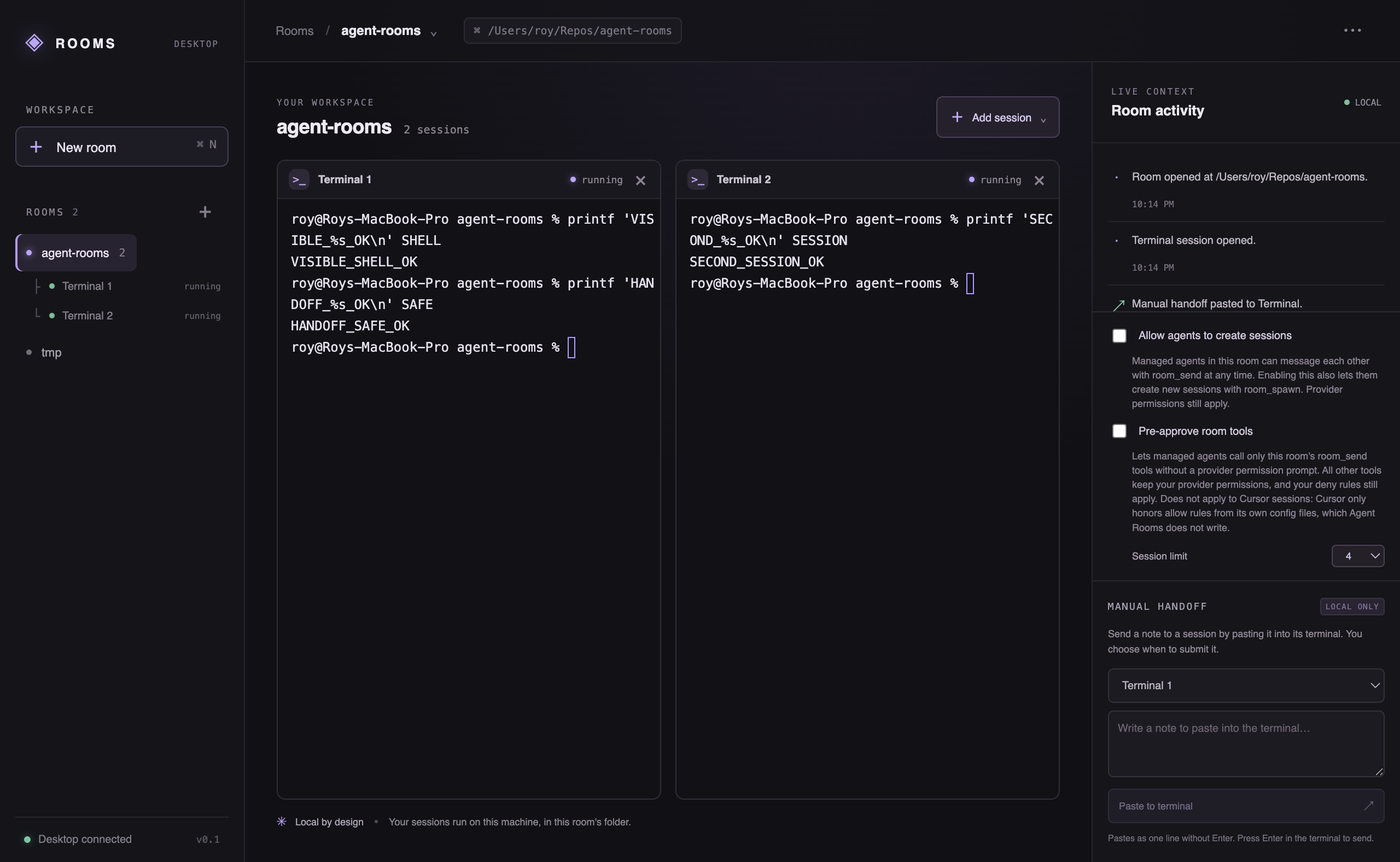
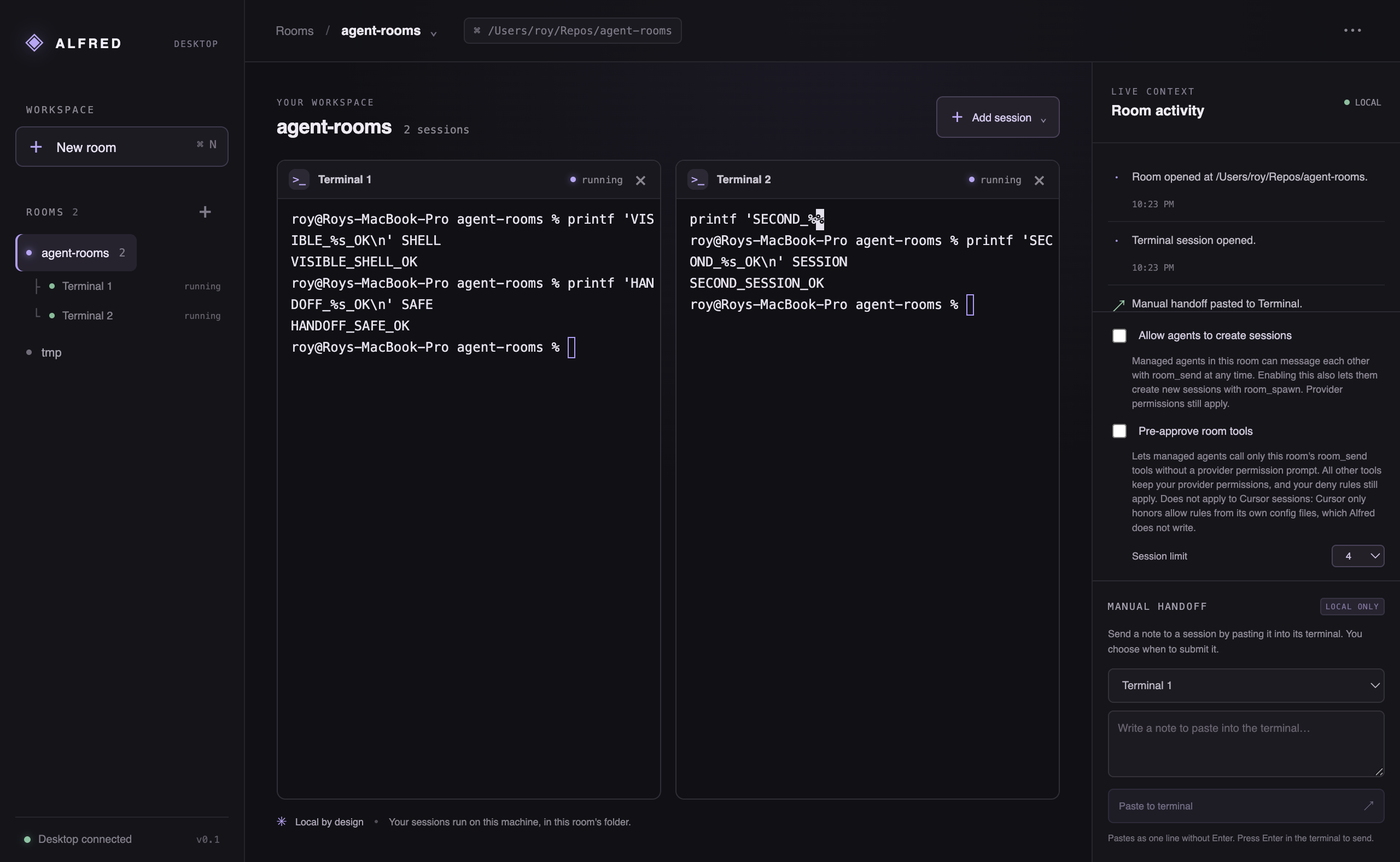
Rename product to Alfred; make managed rename change the room_send address
- Alfred branding across UI, package metadata (Apache-2.0), docs, AGENTS.md
- Migrate saved rooms from the old agent-rooms userData directory
- rooms:rename-agent-session IPC + AgentEngine.renameSession with
  room-unique validation; UI applies rename only on backend success
- Transcript delegation lines resolve current names by session id

Claude-Session: https://claude.ai/code/session_01BGuwhLi6mJrKy1dvGjUKGi

Changed region(s): [[0.5, 0.2487, 0.75, 0.3731], [0.8125, 0.5907, 0.875, 0.6218], [0.0312, 0.0311, 0.0938, 0.0622]]

diff --git a/src/App.tsx b/src/App.tsx
@@ -28,6 +28,10 @@ type ManagedSession = {
     taskId?: string;
     role: 'user' | 'agent' | 'system' | 'task' | 'warning' | 'delegation';
     text: string;
+    // Delegation entries only: the live target session id, so the line can always be
+    // rendered with current names (session.name for the source, this id for the target)
+    // instead of the names frozen into `text` when the delegation event fired.
+    targetSessionId?: string;
   }[];
 };
 type Session = TerminalSession | ManagedSession;
@@ -49,12 +53,14 @@ type AgentEvent = {
     | 'task-completed'
     | 'task-failed'
     | 'session-stopped'
+    | 'session-renamed'
     | 'delegation'
     | 'permission-denied';
   sessionId: string;
   roomId: string;
   taskId?: string;
   text?: string;
+  name?: string;
   targetSessionId?: string;
   targetTaskId?: string;
   session?: {
@@ -116,6 +122,7 @@ type Bridge = {
   }>;
   runAgentTask(input: { sessionId: string; text: string }): Promise<{ taskId: string }>;
   stopAgentSession(id: string): Promise<void>;
+  renameAgentSession(input: { id: string; name: string }): Promise<{ id: string; name: string }>;
   setRoomPolicy(input: {
     roomId: string;
     allowSpawn: boolean;
@@ -188,6 +195,7 @@ const appendTranscript = (
   role: 'user' | 'agent' | 'system' | 'task' | 'warning' | 'delegation',
   text: string,
   taskId?: string,
+  targetSessionId?: string,
 ): ManagedSession => {
   const previous = session.transcript.at(-1);
   if (role === 'agent' && previous?.role === 'agent' && previous.taskId === taskId) {
@@ -201,7 +209,10 @@ const appendTranscript = (
   }
   return {
     ...session,
-    transcript: [...session.transcript, { id: makeId(), taskId, role, text }].slice(-200),
+    transcript: [
+      ...session.transcript,
+      { id: makeId(), taskId, role, text, targetSessionId },
+    ].slice(-200),
   };
 };
 
@@ -354,6 +365,7 @@ function ManagedPane({
   onCommitRename,
   onCancelRename,
   onBlurRename,
+  resolveSessionName,
 }: {
   session: ManagedSession;
   onClose: () => void;
@@ -366,6 +378,9 @@ function ManagedPane({
   onCommitRename: () => void;
   onCancelRename: () => void;
   onBlurRename: () => void;
+  // Live current-name lookup by session id, so a delegation line always reads
+  // with names as they are now, not as they were when the delegation fired.
+  resolveSessionName: (id: string) => string;
 }) {
   const [task, setTask] = useState('');
   const [submitting, setSubmitting] = useState(false);
@@ -451,7 +466,11 @@ function ManagedPane({
                           ? 'DELEGATION'
                           : 'STATUS'}
               </span>
-              <p>{entry.text}</p>
+              <p>
+                {entry.role === 'delegation' && entry.targetSessionId
+                  ? session.name + ' → ' + resolveSessionName(entry.targetSessionId)
+                  : entry.text}
+              </p>
             </div>
           ))
         ) : (
@@ -693,6 +712,8 @@ export default function App() {
                 ...room,
                 sessions: room.sessions.map((session) => {
                   if (session.id !== event.sessionId || session.kind !== 'managed') return session;
+                  if (event.type === 'session-renamed' && event.name)
+                    return { ...session, name: event.name };
                   if (event.type === 'task-started')
                     return event.text
                       ? appendTranscript(
@@ -714,7 +735,13 @@ export default function App() {
                     );
                   if (event.type === 'session-stopped') return { ...session, status: 'stopped' };
                   if (event.type === 'delegation' && event.text)
-                    return appendTranscript(session, 'delegation', event.text, event.taskId);
+                    return appendTranscript(
+                      session,
+                      'delegation',
+                      event.text,
+                      event.taskId,
+                      event.targetSessionId,
+                    );
                   if (event.type === 'permission-denied')
                     return appendTranscript(
                       session,
@@ -1001,12 +1028,12 @@ export default function App() {
   // stay unique within the room — case-insensitively, since room_send
   // addressing a managed session by name should not depend on case — and a
   // rejected rename keeps editing open with an inline error rather than
-  // silently accepting a collision. This is UI/display state only — there
-  // is no backend IPC yet to rename the underlying agent-engine session, so
-  // a managed session's actual room_send address does not change until one
-  // exists (rooms:rename-agent-session).
+  // silently accepting a collision. For a managed session, the rename is
+  // sent to the backend (rooms:rename-agent-session) first, and local state
+  // is only updated on success — otherwise the name shown to the user and
+  // the actual room_send address would drift apart.
   const commitRename = useCallback(
-    (session: Session): boolean => {
+    async (session: Session): Promise<boolean> => {
       const room = roomsRef.current.find((r) => r.sessions.some((s) => s.id === session.id));
       if (!room) {
         setRenamingSessionId('');
@@ -1042,6 +1069,14 @@ export default function App() {
         return false;
       }
       const previousName = target.name;
+      if (target.kind === 'managed' && bridge) {
+        try {
+          await bridge.renameAgentSession({ id: target.id, name: trimmed });
+        } catch (error) {
+          setRenameError('Could not rename: ' + String((error as Error)?.message || error));
+          return false;
+        }
+      }
       setRooms((prev) =>
         prev.map((r) =>
           r.id !== room.id
@@ -1052,21 +1087,12 @@ export default function App() {
               },
         ),
       );
-      appendActivity(
-        previousName +
-          ' renamed to ' +
-          trimmed +
-          (target.kind === 'managed'
-            ? '. Display name only — room_send addressing needs a rooms:rename-agent-session IPC, which does not exist yet.'
-            : '.'),
-        'user',
-        room.id,
-      );
+      appendActivity(previousName + ' renamed to ' + trimmed + '.', 'user', room.id);
       setRenamingSessionId('');
       setRenameError('');
       return true;
     },
-    [sessionNameDraft, appendActivity],
+    [sessionNameDraft, appendActivity, bridge],
   );
   useEffect(() => {
     if (!menu) {
@@ -1206,7 +1232,7 @@ export default function App() {
       <aside className="sidebar">
         <div className="brand">
           <span className="brand-glyph">◈</span>
-          <span>ROOMS</span>
+          <span>ALFRED</span>
           <span className="brand-beta">DESKTOP</span>
         </div>
         <div className="workspace-label">WORKSPACE</div>
@@ -1592,6 +1618,9 @@ export default function App() {
                               onCommitRename={() => commitRename(session)}
                               onCancelRename={cancelRename}
                               onBlurRename={blurCancelRename}
+                              resolveSessionName={(id) =>
+                                room.sessions.find((s) => s.id === id)?.name || id
+                              }
                             />
                           )}
                         </div>
@@ -1752,7 +1781,7 @@ export default function App() {
                     {current.allowSpawn ? ' and room_spawn' : ''} tools without a provider
                     permission prompt. All other tools keep your provider permissions, and your
                     deny rules still apply. Does not apply to Cursor sessions: Cursor only honors
-                    allow rules from its own config files, which Agent Rooms does not write.
+                    allow rules from its own config files, which Alfred does not write.
                   </div>
                   <label className="policy-limit">
                     Session limit

diff --git a/index.html b/index.html
@@ -1,1 +1,1 @@
-<!doctype html><html lang="en"><head><meta charset="UTF-8"/><meta name="viewport" content="width=device-width, initial-scale=1.0"/><title>Agent Rooms</title></head><body><div id="root"></div><script type="module" src="/src/main.tsx"></script></body></html>
+<!doctype html><html lang="en"><head><meta charset="UTF-8"/><meta name="viewport" content="width=device-width, initial-scale=1.0"/><title>Alfred</title></head><body><div id="root"></div><script type="module" src="/src/main.tsx"></script></body></html>

diff --git a/doc/adapters.md b/doc/adapters.md
@@ -2,7 +2,7 @@
 
 ## Why this boundary matters
 
-Starting a provider's CLI in a PTY is not the same as integrating its agent protocol. It gives Agent Rooms a local terminal session, but does not by itself expose structured task creation, internal state, tool events, cancellation, or delegation. The UI and documentation must keep those capabilities separate.
+Starting a provider's CLI in a PTY is not the same as integrating its agent protocol. It gives Alfred a local terminal session, but does not by itself expose structured task creation, internal state, tool events, cancellation, or delegation. The UI and documentation must keep those capabilities separate.
 
 ## MVP adapter: local process
 
@@ -38,7 +38,7 @@ These observations are specific to the installed versions and may change. The CL
 - [Codex App Server](https://developers.openai.com/codex/app-server) is an official integration surface to assess alongside the installed CLI's `app-server` and `queue` commands. Verify its current protocol, supported operations, authentication, and notification behavior before adopting it.
 - [Claude Agent SDK overview](https://code.claude.com/docs/en/agent-sdk/overview) describes embedding the Claude Code agent loop in an application process, while the CLI is the interactive terminal path. Its docs say SDK quickstart uses an API key and third-party products may not offer claude.ai login or rate limits absent approval. Validate this constraint before choosing the SDK path.
 
-SDK/app-server integrations differ from launching an already installed local CLI. Launching the local CLI uses that tool's own sign-in and permission flow; it does not by itself grant Agent Rooms structured API control. Avoid silently switching users from their CLI authentication to API billing.
+SDK/app-server integrations differ from launching an already installed local CLI. Launching the local CLI uses that tool's own sign-in and permission flow; it does not by itself grant Alfred structured API control. Avoid silently switching users from their CLI authentication to API billing.
 
 ## Provider research notes
 
@@ -109,7 +109,7 @@ The owner authorized adding Cursor CLI and a small live test budget of at most 4
 - **Single turn (turn 1).** `-p --output-format stream-json --stream-partial-output --plugin-dir <tmp>/agent-rooms -- <prompt>`.
   - Events: `system/init` (keys `apiKeySource, cwd, session_id, model, permissionMode`; `permissionMode: "default"`; no MCP status field), `user`, `thinking` `delta`/`completed` (ignored), an `assistant` delta, the final full `assistant` message (no `timestamp_ms`), `result/success` (`duration_ms` 3034, `usage`).
   - The task completed with `OK` in about 10.5 s wall time, with session id `1d2e7ebc-…`.
-- **Bridge loaded through `--plugin-dir`.** At `system/init`, `ps` showed `node …/desktop/room-mcp-bridge.mjs` as a child of `cursor-agent`. The tool was exposed as `plugin-<plugin dir basename>-<server key>-room_send`. After the change to a fixed basename, the id became `plugin-agent-rooms-agent_rooms-room_send` (server `plugin-agent-rooms-agent_rooms`). Loading the plugin may depend on a Cursor-side feature gate (`enableUserLocalPlugins`) and has not been verified on other accounts or versions. Nothing was written to the project or to `~/.cursor`, and the temporary plugin directories were gone after each run.
+- **Bridge loaded through `--plugin-dir`.** At `system/init`, `ps` showed `node …/desktop/room-mcp-bridge.mjs` as a child of `cursor-agent`. The tool was exposed as `plugin-<plugin dir basename>-<server key>-room_send`. After the change to a fixed basename, the id became `plugin-agent-rooms-agent_rooms-room_send` (server `plugin-agent-rooms-agent_rooms`). Loading the plugin may depend on a Cursor-side feature gate (`enableUserLocalPlugins`) and has not been verified on other accounts or versions. Nothing was written to the project or to `~/.cursor`, and the temporary plugin directories were gone after each run. This evidence was captured while the Cursor plugin folder/server name was still `agent-rooms`; the 2026-09-22 rename to Alfred deliberately kept that plugin name unchanged (see decisions.md), so the tool id above is still accurate. It is unrelated to `room-mcp-bridge.mjs`'s own `McpServer` name, which is now `alfred`.
 - **Resume (turn 2).** The same argv plus `--resume 1d2e7ebc-…` kept the same `session_id` in init and result.
   - In this resumed chat, the model called the tool under the first turn's randomly named plugin id. That led to the fixed plugin naming.
   - The result text concatenates all assistant segments, including the pre-tool preamble (`"…DONE.DONE"`). The runner passes it through unchanged.

diff --git a/doc/decisions.md b/doc/decisions.md
@@ -10,11 +10,11 @@ Start with a desktop app that can host local terminal sessions and room organiza
 
 ### Local CLIs remain the agent runtime
 
-Use the user's installed command line tools and their established authentication. Keep Agent Rooms' first role to launching, organizing, and observing sessions.
+Use the user's installed command line tools and their established authentication. Keep Alfred's first role to launching, organizing, and observing sessions.
 
 ### Minimal harness; no orchestration LLM
 
-Agent Rooms does not add an LLM to decide which provider runs, translate every prompt, or reconstruct hidden context. Any future workflow must be user-directed or use a provider-supported protocol.
+Alfred does not add an LLM to decide which provider runs, translate every prompt, or reconstruct hidden context. Any future workflow must be user-directed or use a provider-supported protocol.
 
 ### MVP handoff is explicit; room authorization can reduce future friction
 
@@ -43,13 +43,16 @@ Decided 2026-09-22 after reading Cursor CLI 2026.09.18-9a7762b help and docs and
 - **Prompt input.** No stdin prompt input is documented, so the prompt is one argv element after `--` (no shell). It is visible to local process listings for the life of the turn.
 - **Bridge check.** Cursor's `system/init` reports no MCP status, so unlike Claude and Codex a failed bridge cannot be detected before the model turn.
 
-### License remains open
+### Product name and license (owner decision, 2026-09-22)
 
-The project is intended to be open source, but the owner has not selected a license. Do not invent one or add a license file without that decision.
+The owner named the product **Alfred** and set its license to **Apache-2.0** (LICENSE already present in the repo). This supersedes the earlier constraint in AGENTS.md against choosing a name or claiming a license. User-visible branding (window title, sidebar logo, HTML title, `package.json` name/productName/description/license, activity/policy copy, the MCP server name reported by `room-mcp-bridge.mjs`, and docs) was updated to Alfred. "Rooms" remains the in-product concept — Alfred has rooms.
+
+Kept unchanged, deliberately: IPC channel names (`rooms:*`), env var names (`AGENT_ROOMS_*`, including the `x-agent-rooms-token` bridge header), the MCP tool names `room_send`/`room_spawn`, and the Cursor plugin folder/server name `agent-rooms` (so the tool id `plugin-agent-rooms-agent_rooms-room_send` recorded in adapters.md is still accurate and did not need updating). Only the MCP server's own reported `name` field in `room-mcp-bridge.mjs` (as seen via `initialize`/tools metadata, not the Cursor plugin id) changed to `alfred`.
+
+Electron derives the default userData directory from the app name; adding `productName: "Alfred"` moves that directory. `desktop/main.cjs` now migrates `project-state.json` from the previous `agent-rooms` userData directory into the new one on first launch when the new directory has no saved state yet, so existing rooms are not lost. Covered by backend tests in `tests/backend.test.cjs`.
 
 ## Open questions
 
 - Which officially documented Claude Code and Codex interfaces, if any, provide stable structured session or delegation control?
 - What exact room and session metadata should survive restart?
 - Which macOS versions and distribution channel will be supported first?
-- Which open-source license does the owner want?

diff --git a/doc/product.md b/doc/product.md
@@ -2,9 +2,9 @@
 
 ## Vision
 
-Agent Rooms gives developers a practical, local-first home for several coding-agent sessions. Each project is a room; vertical tabs make sessions easy to scan, group, and revisit. The workspace should reduce the overhead of switching between terminal windows while preserving the direct relationship between a developer and the agent CLI they chose.
+Alfred gives developers a practical, local-first home for several coding-agent sessions. Each project is a room; vertical tabs make sessions easy to scan, group, and revisit. The workspace should reduce the overhead of switching between terminal windows while preserving the direct relationship between a developer and the agent CLI they chose.
 
-Over time, the product can make handoffs and delegation between agents easier to observe and manage, including across providers. That destination depends on real capabilities exposed by each provider. Agent Rooms must not pretend a pasted prompt is native delegation or imply it transferred hidden context.
+Over time, the product can make handoffs and delegation between agents easier to observe and manage, including across providers. That destination depends on real capabilities exposed by each provider. Alfred must not pretend a pasted prompt is native delegation or imply it transferred hidden context.
 
 ## Who it is for
 
@@ -24,7 +24,7 @@ The MVP is a desktop organizer and terminal harness. It does not implement autom
 ## Product rules
 
 1. **Local first.** Commands run on the user's machine with the user's installed CLI and its own authentication flow.
-2. **No extra reasoning layer.** Agent Rooms does not add an orchestration LLM or rewrite the user's agent context behind their back.
+2. **No extra reasoning layer.** Alfred does not add an orchestration LLM or rewrite the user's agent context behind their back.
 3. **Visible actions.** Starting, stopping, pasting, and submitting work should be clear and attributable to a user action or a policy the user explicitly set.
 4. **Authorization before dispatch.** In the MVP, a pasted handoff never triggers Enter; the user reviews and submits it. A later room-level policy may explicitly authorize an agent to open or message another agent without per-message confirmation. The policy must name its scope and destinations, be visible and revocable, and produce observable activity. Do not treat low-friction preference as authorization to bypass provider permissions.
 5. **Provider truthfulness.** Label capabilities according to verified provider behavior. Shell launch, manual handoff, structured adapter support, and native delegation are distinct capabilities.

diff --git a/doc/roadmap.md b/doc/roadmap.md
@@ -4,7 +4,7 @@ Statuses reflect visible code and evidence at the time of the latest update. Mil
 
 ## 0. Capability validation — in progress
 
-Read-only inspection of installed Codex CLI 0.149.1 and Claude Code 2.1.280 help shows promising local controls: Codex can queue a message for a session by UUID or exact name and can browse sessions on a shared app-server; Claude Code can run/list/attach/log/stop background sessions. This confirms useful CLI entry points exist, but not that Agent Rooms can reliably discover identity, receive notifications, or perform native cross-provider delegation. Next, verify official documentation and the interaction semantics. Keep research read-only; do not submit billable agent tasks.
+Read-only inspection of installed Codex CLI 0.149.1 and Claude Code 2.1.280 help shows promising local controls: Codex can queue a message for a session by UUID or exact name and can browse sessions on a shared app-server; Claude Code can run/list/attach/log/stop background sessions. This confirms useful CLI entry points exist, but not that Alfred can reliably discover identity, receive notifications, or perform native cross-provider delegation. Next, verify official documentation and the interaction semantics. Keep research read-only; do not submit billable agent tasks.
 
 **Exit:** documented capability matrix with links to provider documentation, verified identity and notification behavior, and clear distinctions between local session control, provider-native delegation, and cross-provider handoff; no unsupported capability claim.
 
@@ -32,6 +32,6 @@ Design user-directed handoffs between provider runtimes. Preserve provenance, sh
 
 ## 5. Polish and distribution — pending
 
-Improve onboarding, accessibility, recovery behavior, macOS packaging, signing/notarization planning, update strategy, and documentation. Choose a software license with the project owner before publishing a license file or distributing under an assumed license.
+Improve onboarding, accessibility, recovery behavior, macOS packaging, signing/notarization planning, update strategy, and documentation. Name (Alfred) and license (Apache-2.0) were decided by the owner on 2026-09-22 (see decisions.md); publishing the repository or a release still requires explicit owner approval.
 
-**Exit:** clean install and upgrade paths are understood; platform checks and distribution limitations are documented; license decision is recorded.
+**Exit:** clean install and upgrade paths are understood; platform checks and distribution limitations are documented.

diff --git a/doc/tasks.md b/doc/tasks.md
@@ -4,7 +4,8 @@ Updated 2026-09-22. Milestone 1 (local terminal foundation) is implemented and t
 
 ## Done — foundation
 
-- [x] New standalone Git project in `/Users/roy/repos/agent-rooms`; temporary name.
+- [x] New standalone Git project in `/Users/roy/repos/agent-rooms`.
+- [x] Name and license decided by the owner (2026-09-22): product is **Alfred**, license **Apache-2.0**. See decisions.md.
 - [x] Electron + React + TypeScript + xterm.js + node-pty with lockfile.
 - [x] Isolated renderer, narrow preload API, main-frame IPC validation, CSP, provider allowlist.
 - [x] Create, rename, switch and remove rooms; select a project directory.
@@ -56,13 +57,14 @@ Updated 2026-09-22. Milestone 1 (local terminal foundation) is implemented and t
 ## Remaining UX/release work
 
 - [ ] Resizable split handles and pane layout controls.
-- [ ] Distinct names/roles for multiple sessions of the same provider.
+- [x] Distinct names/roles for multiple sessions of the same provider: renaming a managed session now calls `rooms:rename-agent-session`, which renames the real `AgentEngine` session (so `room_send` addresses the new name immediately) and only updates the UI on backend success; unit tests cover validation, per-room case-insensitive uniqueness, and `resolveDestination` after a rename.
+- [x] Delegation transcript lines in a managed session's own pane are rendered from the live session name (source) and the target session id (current name), like Room Activity already did, instead of the names frozen into the event text.
 - [ ] Better recovery and persisted activity/session display history (no sensitive transcripts by default).
 - [ ] Provider discovery beyond the Claude/Codex/Cursor/shell allowlist. Cursor backend support is done; its UI picker entry is pending.
 - [ ] More accessibility and keyboard navigation checks.
 - [ ] Define supported macOS versions and Intel/Apple Silicon release coverage.
 - [ ] Signed/notarized installer, updates and clean-machine installation checks.
-- [ ] Select final name and license with owner; no public repository or release has been published.
+- [x] Name is Alfred; license Apache-2.0 (owner decision, 2026-09-22). No public repository or release has been published; publishing still needs explicit owner approval.
 
 ## Post-MVP (owner requests, 2026-09-22)
 

diff --git a/doc/native-integration.md b/doc/native-integration.md
@@ -4,7 +4,7 @@ Researched 2026-09-22 against Claude Code 2.1.280 and Codex CLI 0.149.1 installe
 
 ## Recommendation
 
-Keep the current PTY integration as the native interactive-session path. Add a separate structured subprocess adapter path for room collaboration. Use the installed provider CLIs, their existing sign-in and permissions, and a per-process Agent Rooms MCP bridge exposing only `room_send` and `room_spawn`. The existing parent conductor calls these tools directly with an explicit target, the task text, the exact context the user/agent authorized to send, and provenance. Do not add a router model, rewrite context, or imply that Claude/Codex redirects its private native subagents into other providers.
+Keep the current PTY integration as the native interactive-session path. Add a separate structured subprocess adapter path for room collaboration. Use the installed provider CLIs, their existing sign-in and permissions, and a per-process Alfred MCP bridge exposing only `room_send` and `room_spawn`. The existing parent conductor calls these tools directly with an explicit target, the task text, the exact context the user/agent authorized to send, and provenance. Do not add a router model, rewrite context, or imply that Claude/Codex redirects its private native subagents into other providers.
 
 The bridge should authenticate local callers, bind each process to a room and source session, enforce the persisted room policy and concurrency limits, and record tool request/acknowledgement/result events. Tool arguments should identify the target provider/session, exact task, and context segments with their source session/message identifiers. `room_send` appends the request to a known existing conversation using that provider's resume mechanism; `room_spawn` starts a new provider conversation with the explicit task/context. Acknowledgement means the provider accepted a user turn or started a process/thread; it does not mean the model completed the task. Keep those states distinct. On resume, reattach to the same provider session ID and use the provider's final/turn-completed event for completion. When only exact context can be carried, send those source excerpts verbatim with labels and provenance; never claim full conversation/tool state or permissions transferred.
 

diff --git a/doc/architecture.md b/doc/architecture.md
@@ -2,7 +2,7 @@
 
 ## Shape of the application
 
-Agent Rooms is a Mac-first Electron desktop application. Keep the process boundary clear: the renderer owns room navigation, vertical tabs, splits, and activity presentation; the privileged main process owns local persistence and process lifecycle; a narrow preload bridge exposes validated operations to the renderer. Do not expose unrestricted Node APIs to UI code. The current scaffold has Electron main/preload entry points and a React renderer; the concrete IPC contract and end-to-end behavior are still in progress.
+Alfred is a Mac-first Electron desktop application. Keep the process boundary clear: the renderer owns room navigation, vertical tabs, splits, and activity presentation; the privileged main process owns local persistence and process lifecycle; a narrow preload bridge exposes validated operations to the renderer. Do not expose unrestricted Node APIs to UI code. The current scaffold has Electron main/preload entry points and a React renderer; the concrete IPC contract and end-to-end behavior are still in progress.
 
 The current MVP uses local PTY processes as its execution layer. A session is a child process started in a room working directory, with terminal input/output and lifecycle events passed through the desktop IPC boundary. Shell, Claude Code, and Codex are launched as local commands. CLI discovery should be explicit and failure-tolerant: an unavailable CLI must not prevent shell use. Native permission-bypass flags must never be added implicitly.
 

diff --git a/README.md b/README.md
@@ -1,8 +1,8 @@
-# Agent Rooms
+# Alfred
 
-Agent Rooms is a Mac-first desktop workspace for working with coding agents in focused project rooms. It brings vertical tabs, room grouping, and multiple local agent sessions into one calm, inspectable interface while continuing to use the CLIs developers already have installed.
+Alfred is a Mac-first desktop workspace for working with coding agents in focused project rooms. It brings vertical tabs, room grouping, and multiple local agent sessions into one calm, inspectable interface while continuing to use the CLIs developers already have installed.
 
-The project is open source in intent. Its software license is still to be chosen; no license has been assumed.
+The project is licensed under Apache-2.0. Publishing the repository (making it public, cutting a GitHub release) still requires explicit owner approval.
 
 ## Current state
 
@@ -49,4 +49,4 @@ Run the production build with `npm run build && npm start`. This is a source che
 - Keep the local CLI as the agent runtime and preserve existing user authentication.
 - Keep agent dispatch explicit, authorized, and observable; the MVP manual-paste path never auto-submits.
 - Treat delegation and provider context boundaries honestly.
-- Use no orchestration LLM. Agent Rooms is a workspace and harness, not an extra reasoning layer.
+- Use no orchestration LLM. Alfred is a workspace and harness, not an extra reasoning layer.

diff --git a/AGENTS.md b/AGENTS.md
@@ -1,6 +1,6 @@
-# Agent Rooms
+# Alfred
 
-Temporary project name. All implementation and planning lives in this repository.
+Name is Alfred; license Apache-2.0 (owner decision, 2026-09-22). All implementation and planning lives in this repository.
 
 ## Product constraints
 - Mac-first Electron application; vertical sessions grouped into rooms.
@@ -16,4 +16,4 @@ Temporary project name. All implementation and planning lives in this repository
 - Record architecture decisions in doc/decisions.md and integration evidence in doc/adapters.md.
 - Run npm test and npm run build for meaningful changes. npm run test:smoke uses a real local shell; it must not launch billable agent work.
 - Keep lockfile committed. Native node-pty must be rebuilt for the installed Electron version.
-- Do not publish, choose a final product name, or claim a license until the owner has decided.
+- Name is Alfred; license Apache-2.0. Publishing (making the repo public, GitHub releases) only when the owner has approved it.
